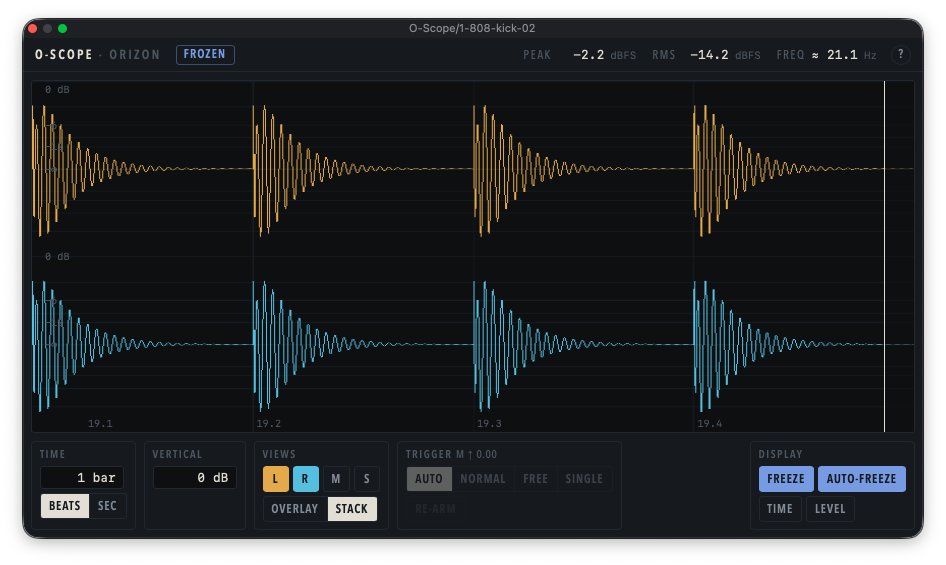
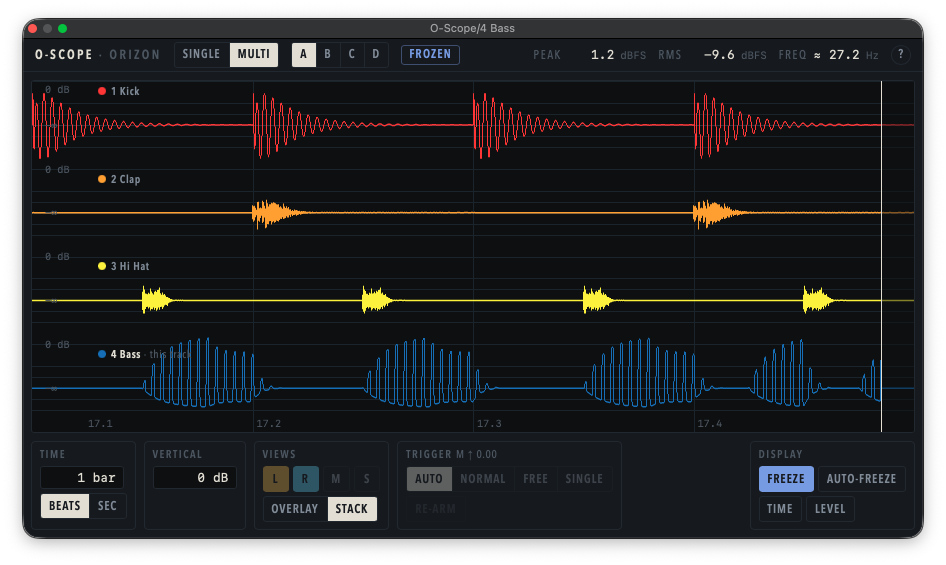
Show the multi-track view in the README screenshot

diff --git a/README.md b/README.md
@@ -2,7 +2,7 @@
 
 An open-source VST3 oscilloscope by Orizon Audio. It shows the audio on its track in real time and passes it through unchanged, with zero latency.
 
-![O-Scope frozen on a kick drum in Beats mode, with the left and right channels stacked](assets/o-scope.png)
+![O-Scope's multi-track view, frozen in Beats mode: kick, clap, hi-hat and bass lanes stacked in their track colours](assets/o-scope.png)
 
 - Triggered display from 0.5 ms to 1 s, with Auto, Normal, Free and Single trigger modes; spans up to 4 s scroll continuously.
 - Tempo-synced sweep: a span in beats or bars, aligned to the host's bar lines, with a beat grid and playhead.
